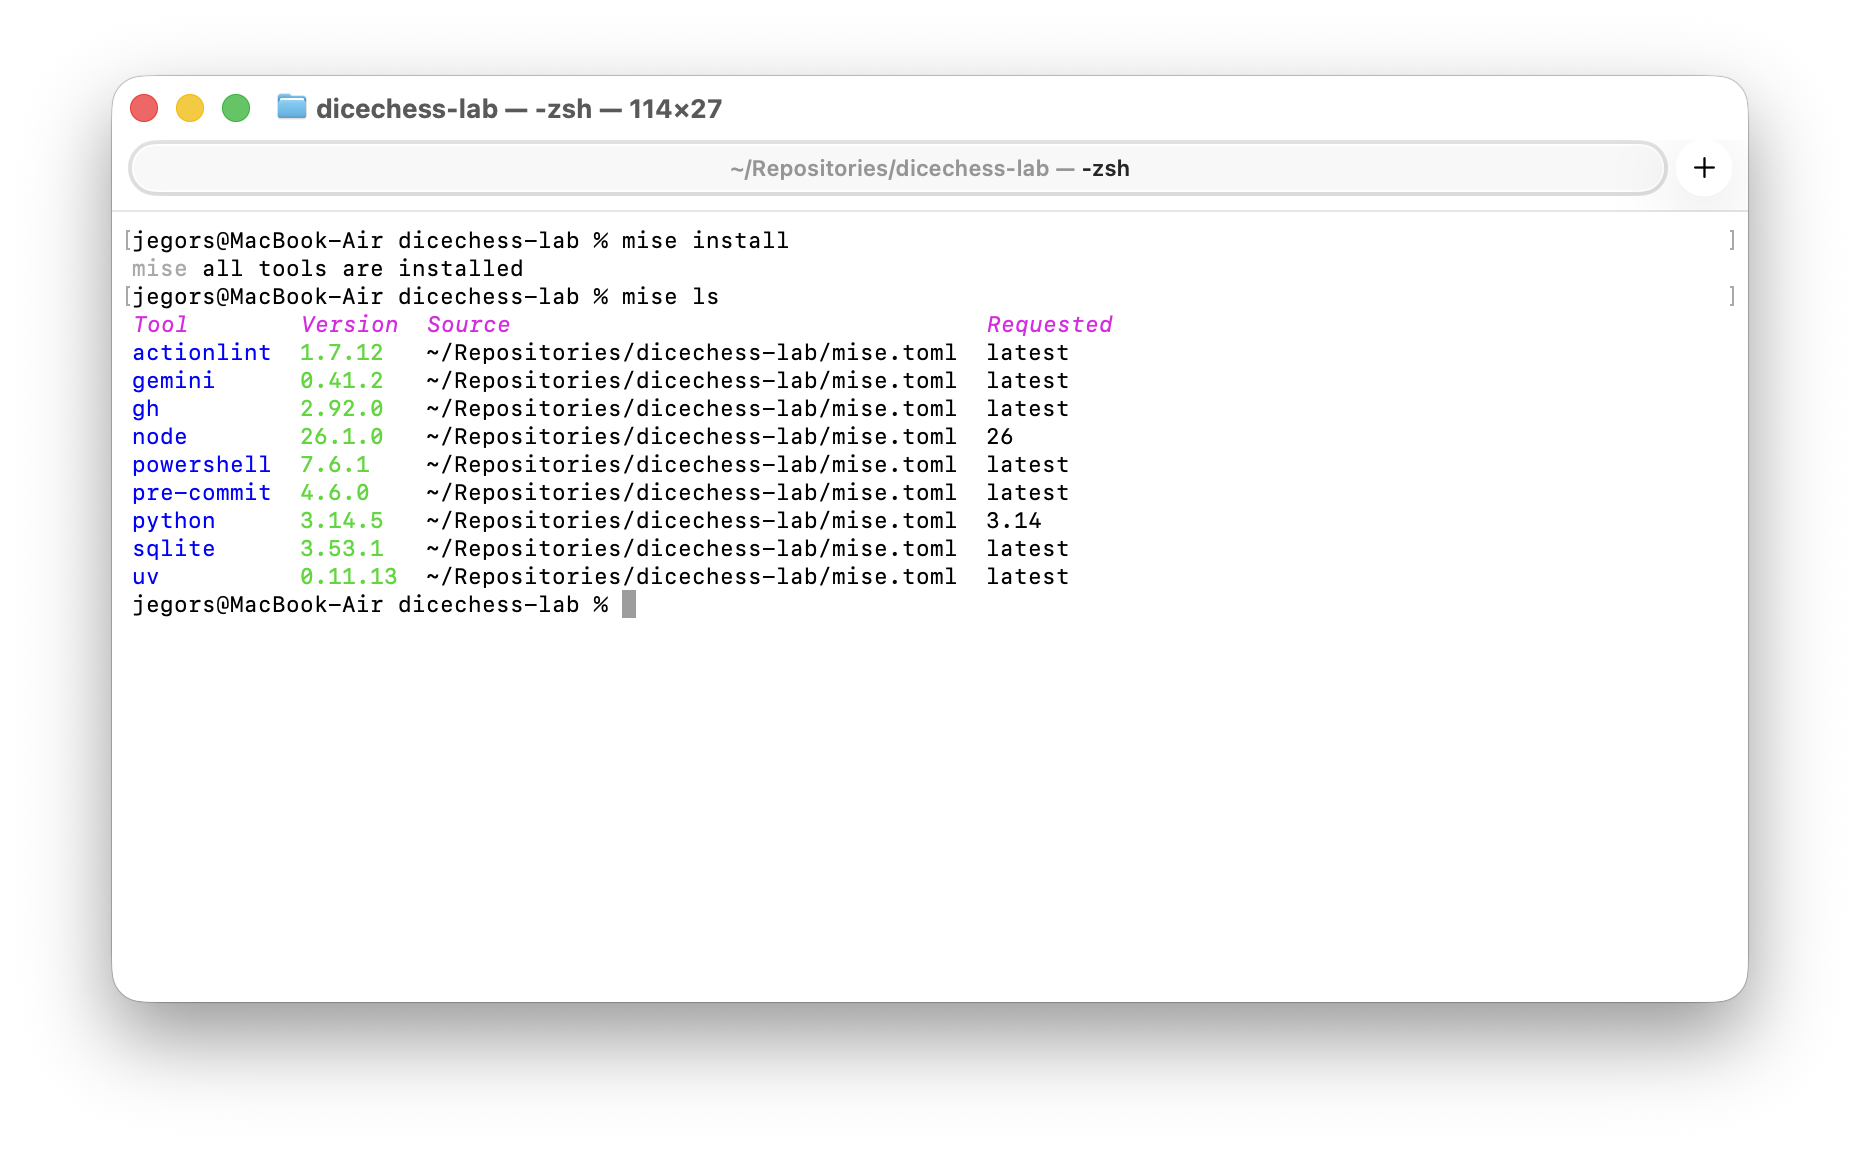
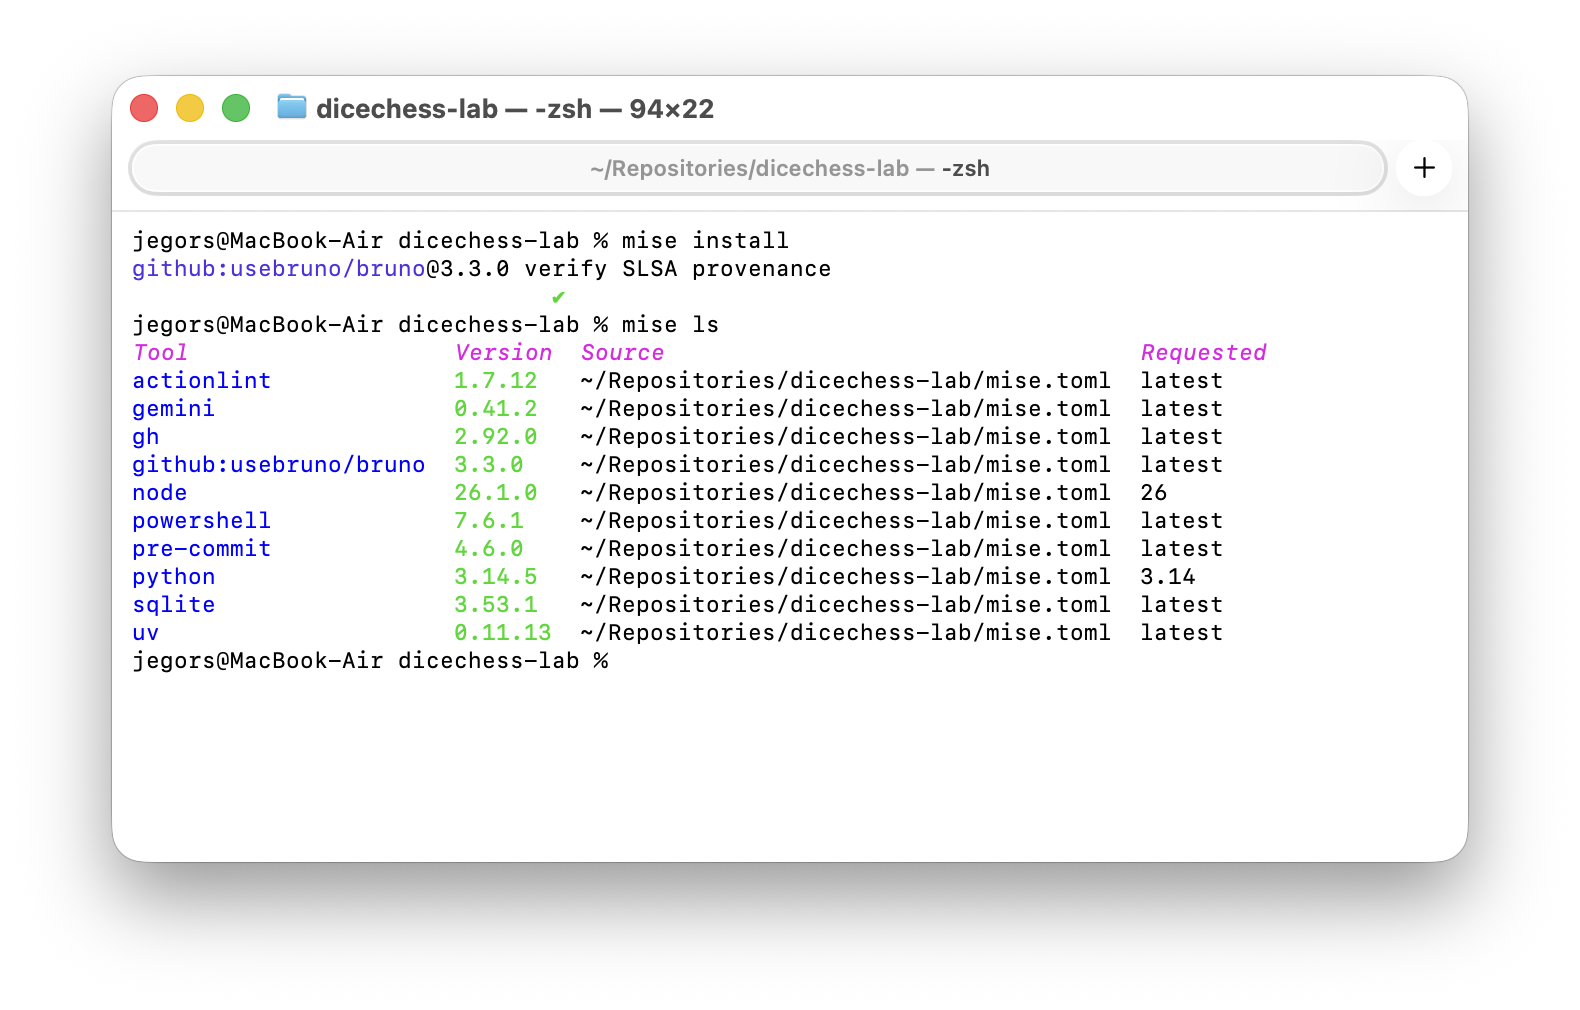
Enhance Mise post: add section on custom tool installation via backends, refine descriptions, and include new image asset

Changed region(s): [[0.062, 0.0614, 0.9614, 0.8901]]

diff --git a/_posts/2026-05-11-unifying-monorepo-chaos-with-mise.md b/_posts/2026-05-11-unifying-monorepo-chaos-with-mise.md
@@ -65,6 +65,18 @@ mise install
 
 Mise automatically resolves, downloads, and installs every tool listed above — from language runtimes like Node and Python to CLI utilities like `gh`, `actionlint`, and even `powershell`. Everything is self-contained. No separate manuals are required.
 
+### Beyond the built-in registry
+
+At first, I assumed I was limited to tools discoverable via `mise search` or listed in `mise registry`. When I searched for [Bruno](https://www.usebruno.com/) — an API client I use for exploring and testing the Dice Chess API — it was nowhere to be found. I almost gave up and went back to installing it manually.
+
+Then I discovered that Mise supports multiple **backends**. The `github:` backend can install any tool that publishes binaries as GitHub Releases. It even verifies [SLSA provenance](https://slsa.dev/) automatically when available. So adding Bruno was as simple as one extra line:
+
+```toml
+"github:usebruno/bruno" = "latest"
+```
+
+This unlocked the full picture: the built-in registry is just the starting point. In practice, the pool of installable tools is virtually unlimited.
+
 ![mise install and mise ls output](/assets/img/2026-05-11-mise-install-ls.png)
 _Running `mise install` provisions the entire toolchain; `mise ls` confirms every resolved version and its source._
 